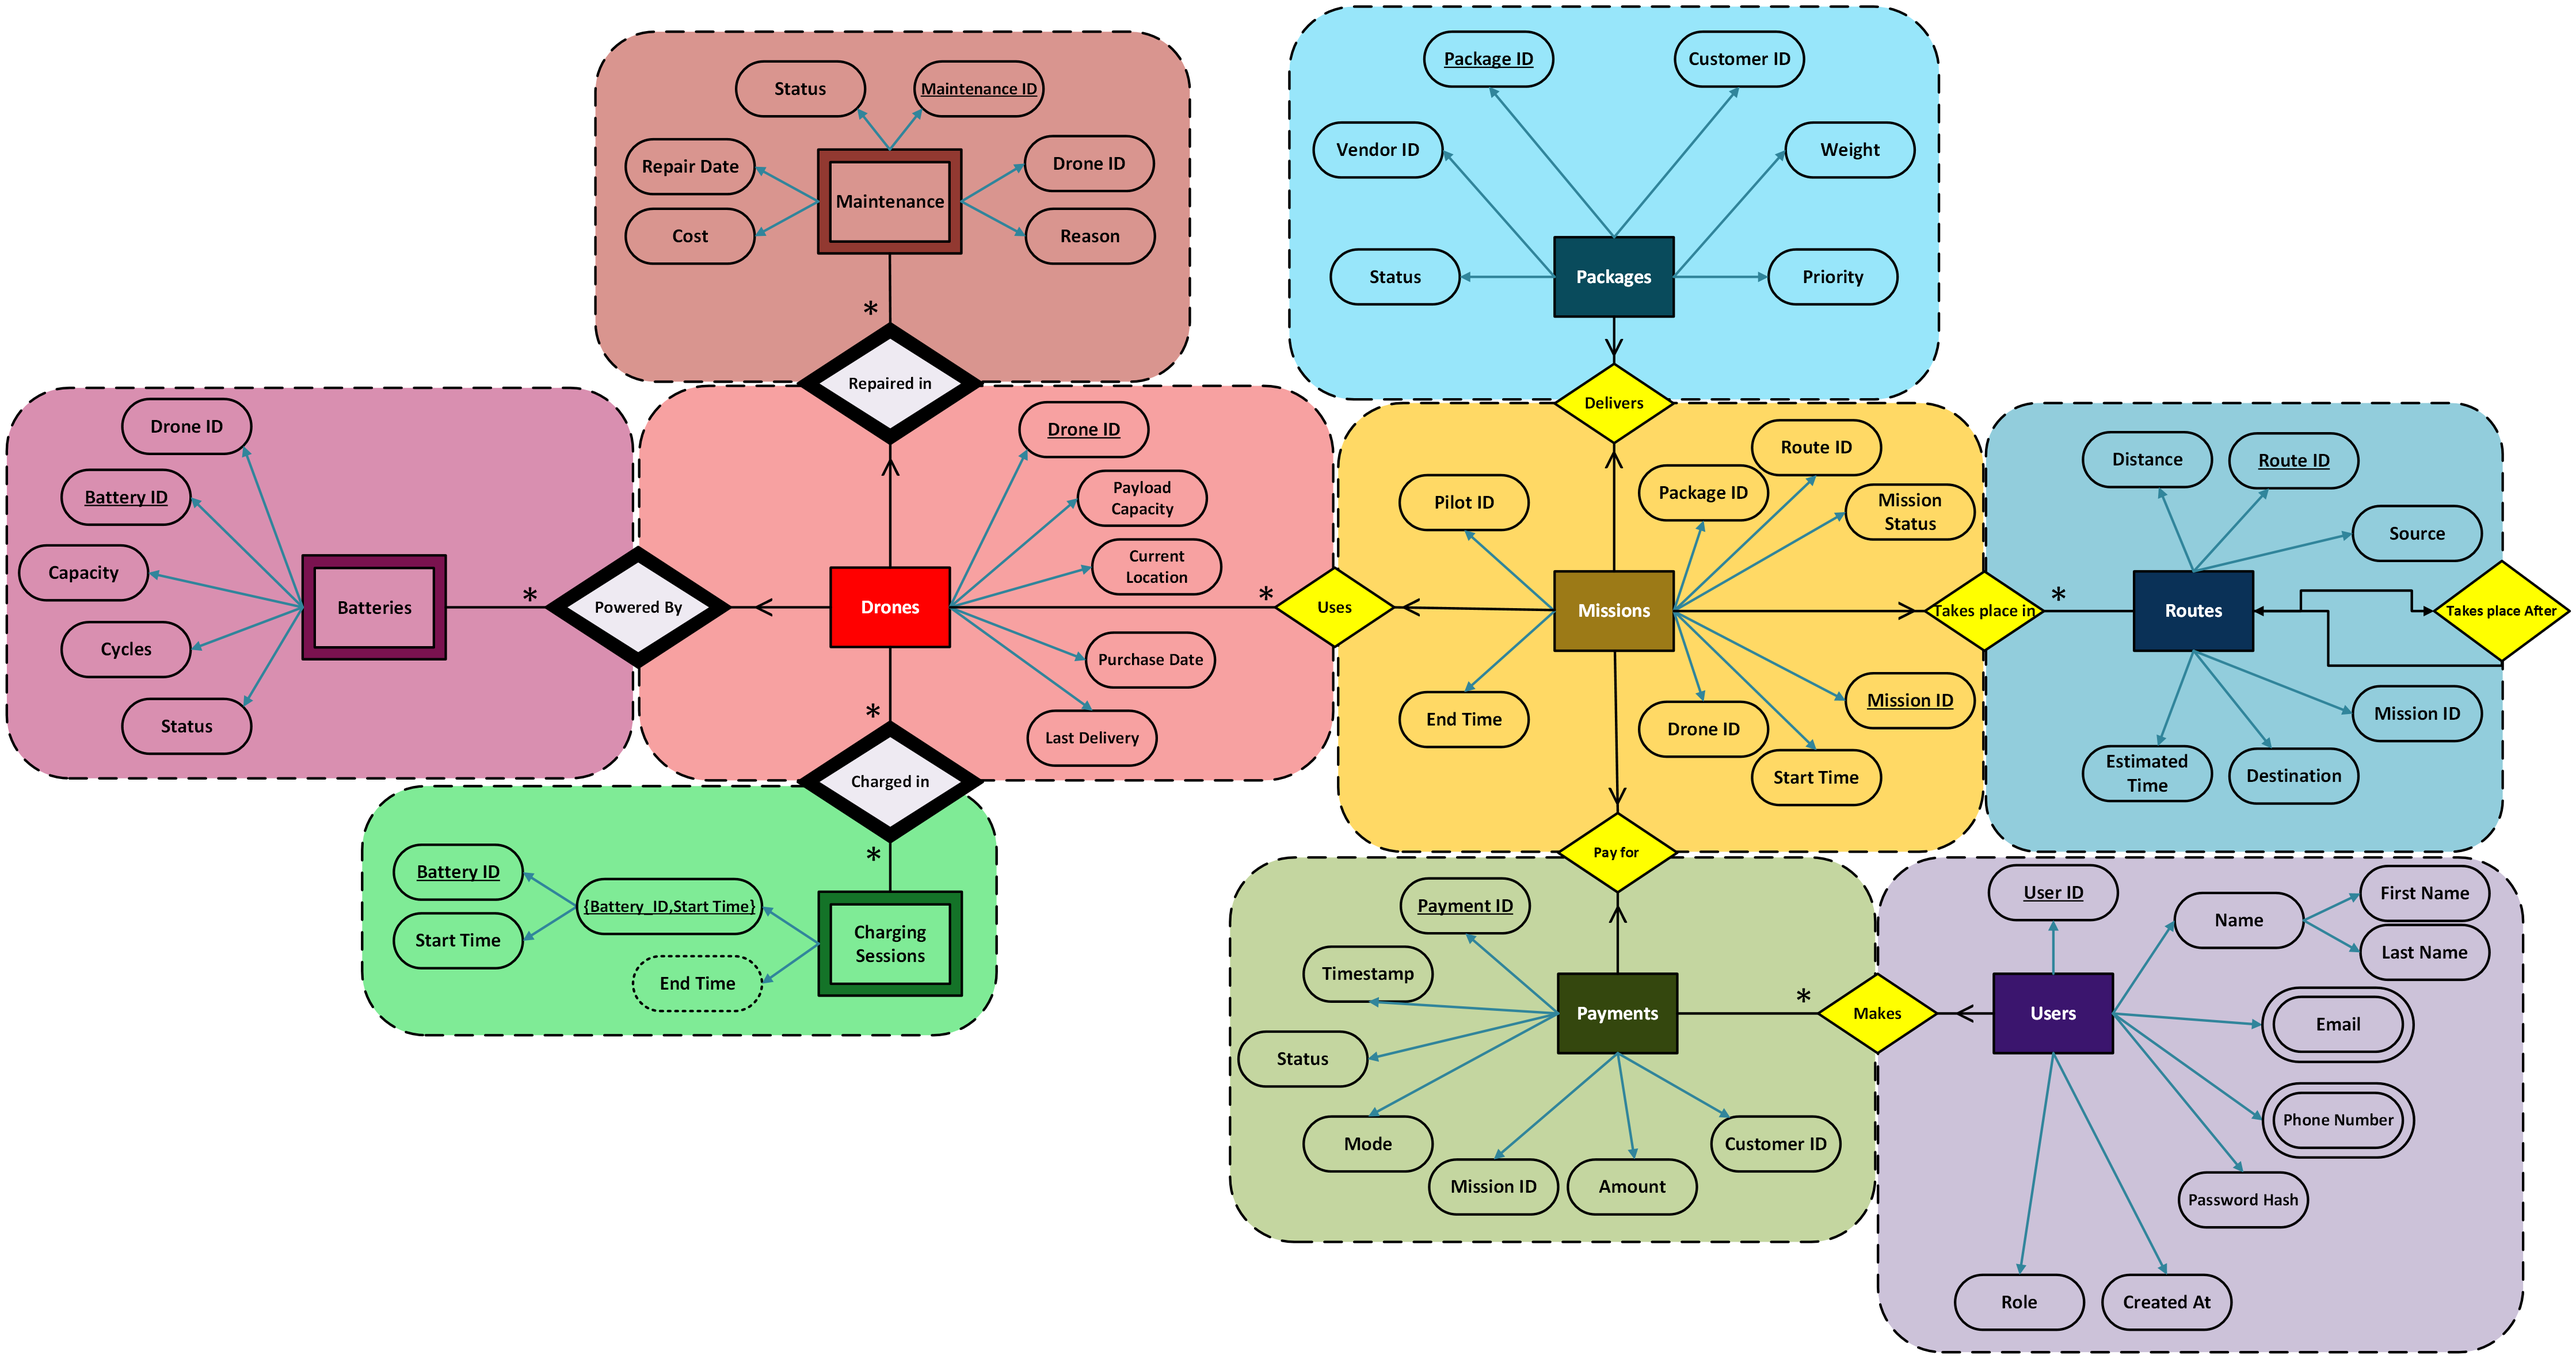
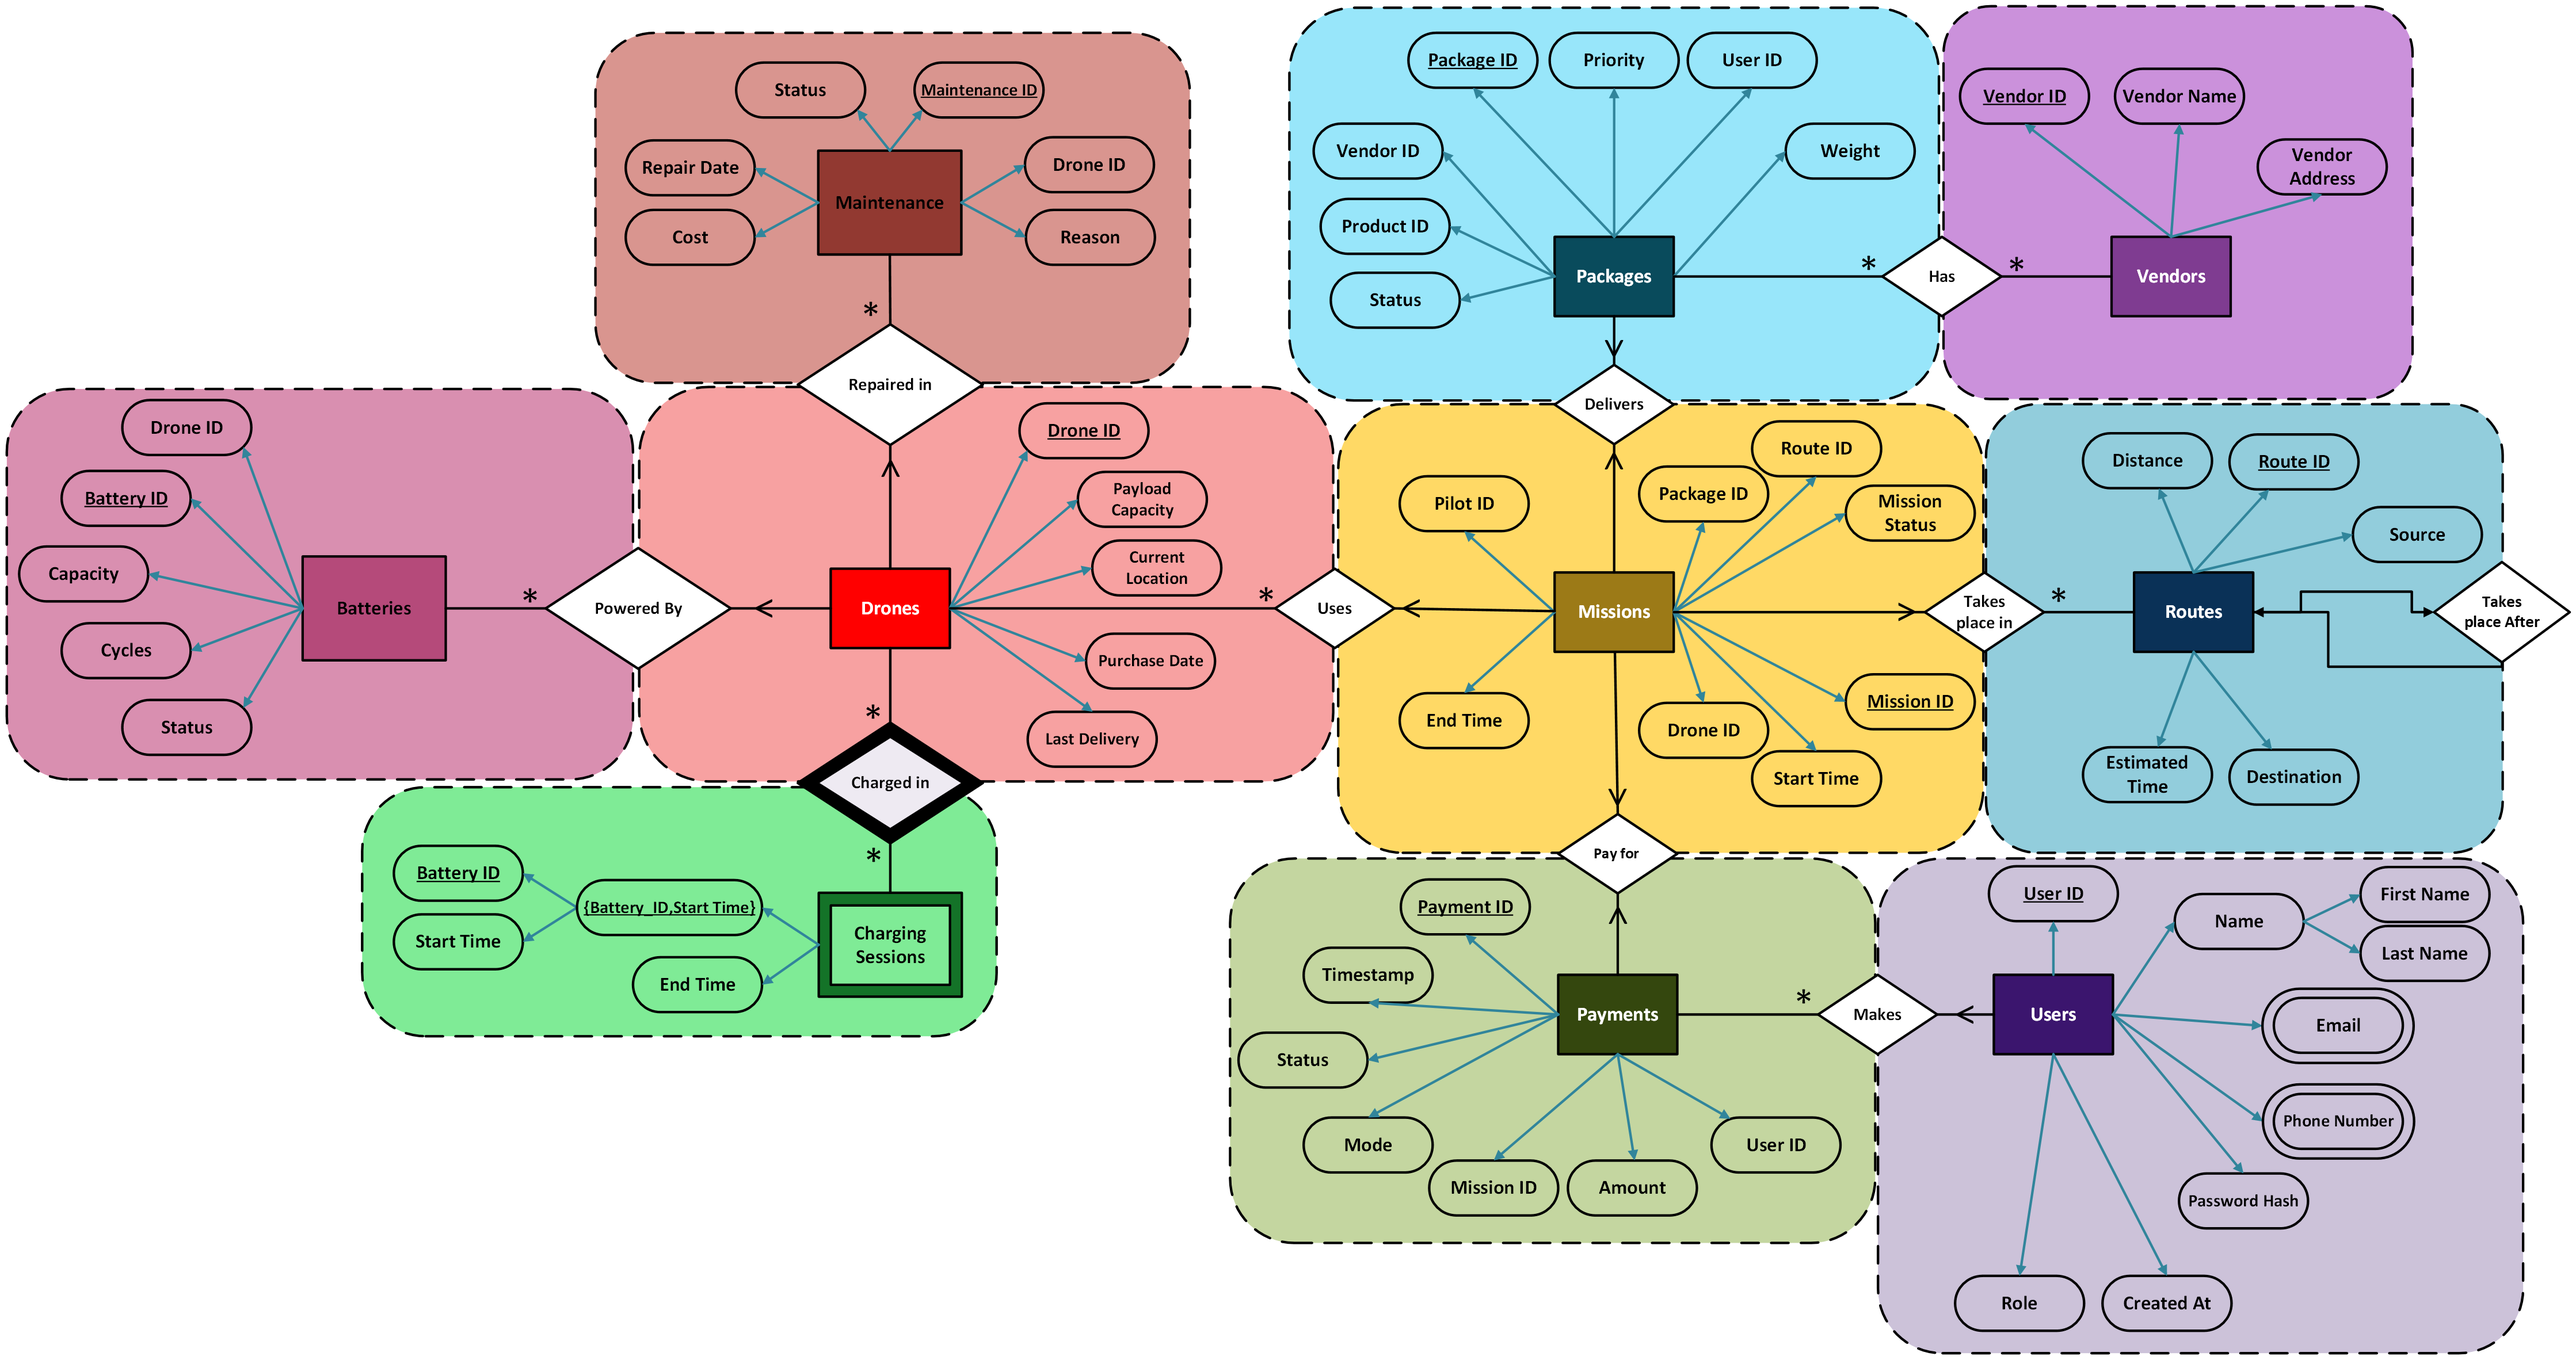
Updated ER Diagram

diff --git a/database/database.py b/database/database.py
@@ -3,8 +3,8 @@ import mysql.connector
 
 db = mysql.connector.connect(
     host="localhost",
-    user="admin", # Beware
-    password="180589" # Beware
+    user="root", # Beware
+    password="Jashu@124" # Beware
 )
 
 cursor = db.cursor()
@@ -16,8 +16,8 @@ db.close()
 
 db = mysql.connector.connect(
     host = "localhost",
-    user="admin", # Beware
-    password="180589", # Beware
+    user="root", # Beware
+    password="Jashu@124", # Beware
     database = "DRONEDELIVERY"
 )
 
